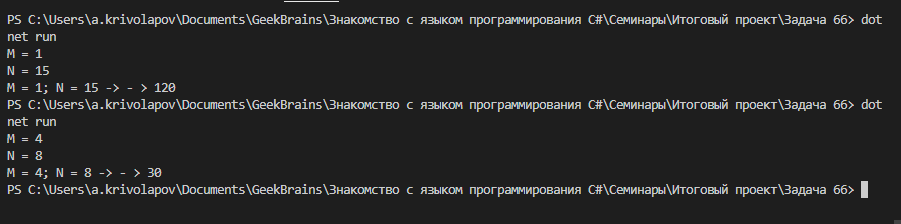
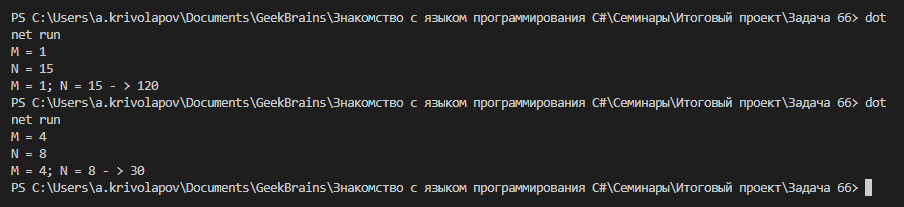
исправлена ошибка в 66

diff --git a/Итоговый проект/Задача 68/Program.cs b/Итоговый проект/Задача 68/Program.cs
@@ -4,3 +4,18 @@
 m = 2, n = 3 -> A(m,n) = 9
 m = 3, n = 2 -> A(m,n) = 29
 */
+
+int Ackermann(int m, int n)
+{
+    if(m == 0)
+        return n + 1;
+    else
+        if((m > 0) && (n == 0))
+            
+}
+
+Console.Write("M = ");
+int M = Convert.ToInt32(Console.ReadLine());
+Console.Write("N = ");
+int N = Convert.ToInt32(Console.ReadLine());
+Console.WriteLine($"M = {M}; N = {N} - > {Ackermann(M, N)}");

diff --git a/Итоговый проект/Задача 66/Program.cs b/Итоговый проект/Задача 66/Program.cs
@@ -21,4 +21,4 @@ Console.Write("M = ");
 int M = Convert.ToInt32(Console.ReadLine());
 Console.Write("N = ");
 int N = Convert.ToInt32(Console.ReadLine());
-Console.WriteLine($"M = {M}; N = {N} -> - > {sumNatural(M, N)}");
+Console.WriteLine($"M = {M}; N = {N} - > {sumNatural(M, N)}");
